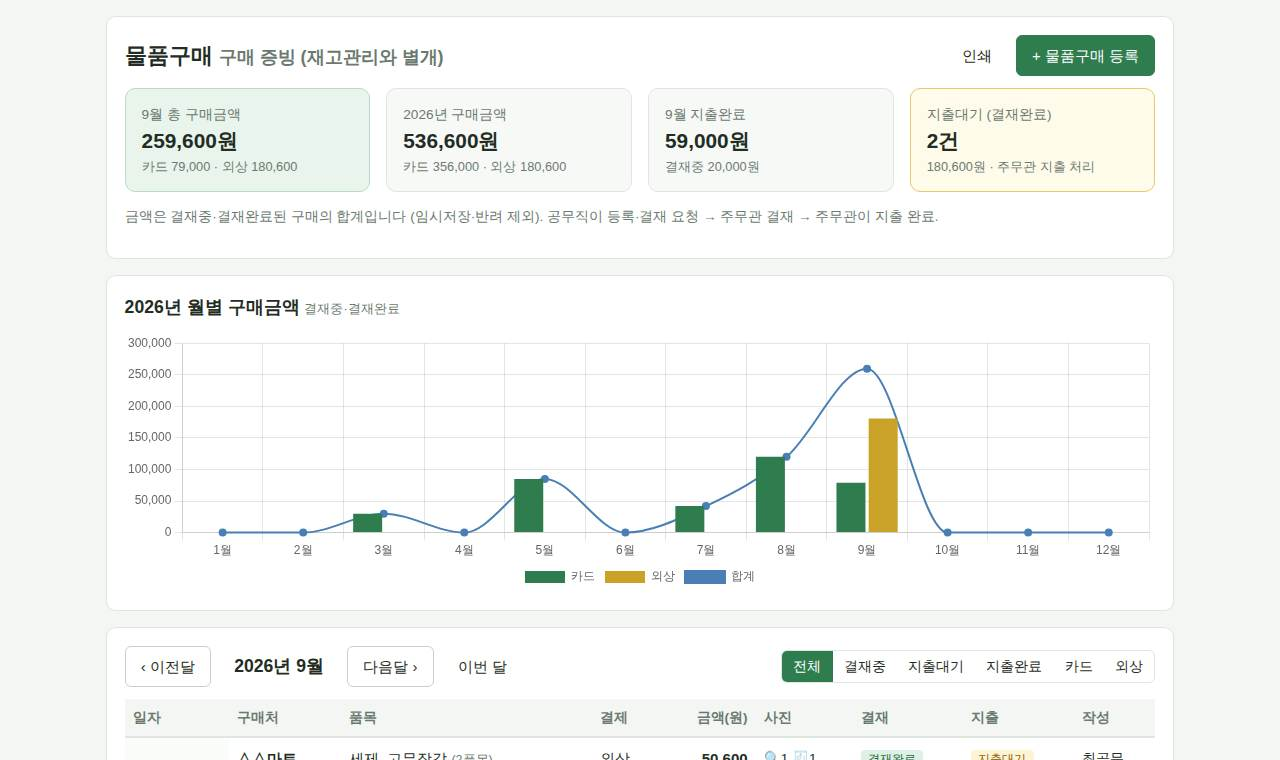
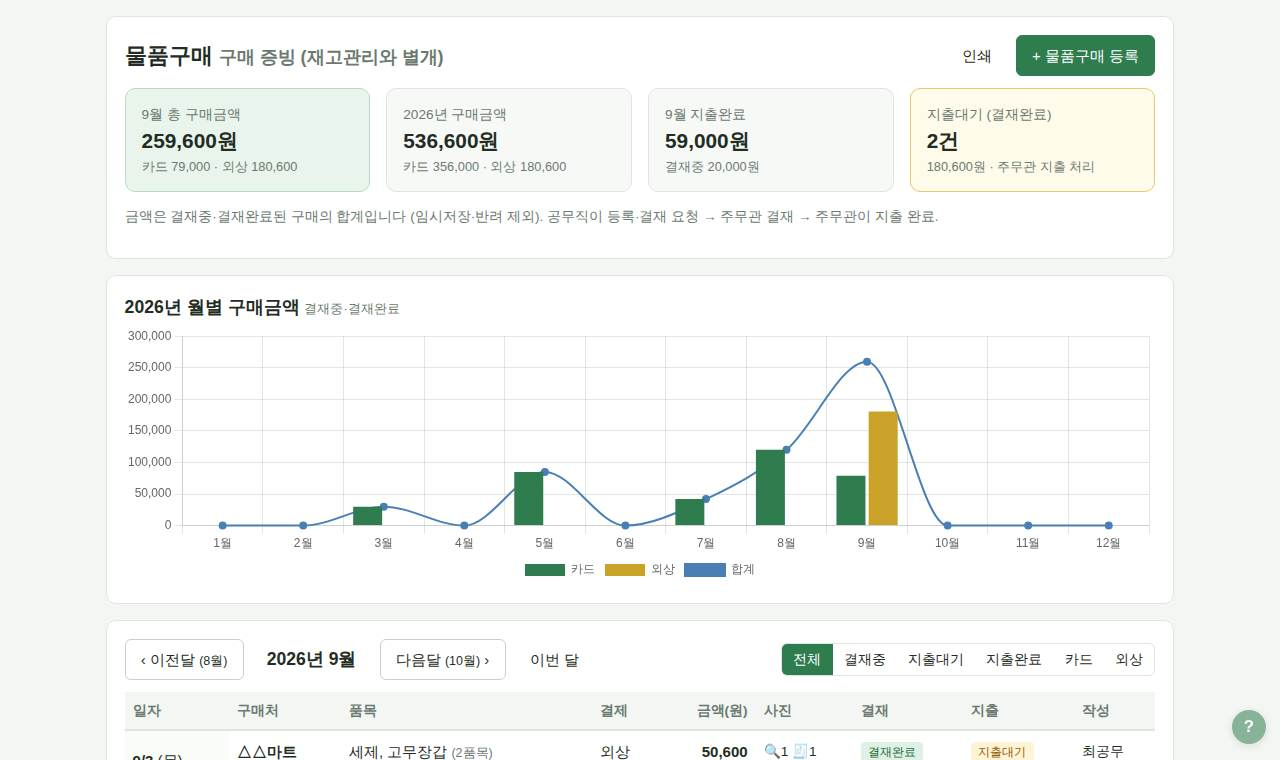
물품구매: 이전달·다음달·거르기 탭 링크 오류 수정, 빈 달 건너뛰기
- $q 링크가 현재 ym·f 를 덮어써서 이동이 안 되던 문제 (배열 합치는 순서)
- 이전달·다음달은 구매 내역이 있는 가까운 달로, 버튼에 갈 달 표시

Claude-Session: https://claude.ai/code/session_01Lr6yxKyasrSL9QLfMX5TX8

diff --git a/purchase.php b/purchase.php
@@ -81,7 +81,18 @@ $rows = array_filter($all, fn($r) => match ($f) {
 });
 $byDate = [];
 foreach ($rows as $r) $byDate[$r['work_date']][] = $r;
-$q = fn(array $p) => 'purchase.php?' . http_build_query(array_filter(['ym' => $ym, 'f' => $f] + $p, fn($v) => $v !== ''));
+$q = fn(array $p) => 'purchase.php?' . http_build_query(array_filter($p + ['ym' => $ym, 'f' => $f], fn($v) => $v !== '')); // 바꿀 값($p)이 앞 — 뒤의 현재 값은 없는 키만 채움
+
+// 이전달·다음달: 구매 내역이 없는 달은 건너뛰고 내역이 있는 가까운 달로 (없으면 바로 앞·뒤 달)
+$navMonth = function (string $dir) use ($pdo, $from, $to, $user, $first): string {
+    $st = $pdo->prepare("SELECT DATE_FORMAT(" . ($dir === 'prev' ? 'MAX' : 'MIN') . "(j.work_date), '%Y-%m') FROM journals j
+                          WHERE j.type = 'purchase' AND (j.status <> 'draft' OR j.author_id = ?) AND j.work_date " . ($dir === 'prev' ? '< ?' : '> ?'));
+    $st->execute([$user['id'], $dir === 'prev' ? $from : $to]);
+    return (string) ($st->fetchColumn() ?: $first->modify($dir === 'prev' ? '-1 month' : '+1 month')->format('Y-m'));
+};
+$prevYm = $navMonth('prev');
+$nextYm = $navMonth('next');
+$ymLabel = fn(string $m) => ((int) substr($m, 0, 4) !== $year ? substr($m, 0, 4) . '년 ' : '') . (int) substr($m, 5) . '월';
 
 layout_header('물품구매', 'purchase');
 ?>
@@ -110,9 +121,9 @@ layout_header('물품구매', 'purchase');
 
 <section class="card">
   <div class="cal-nav no-print">
-    <a class="btn" href="<?= e(url($q(['ym' => $first->modify('-1 month')->format('Y-m')]))) ?>">‹ 이전달</a>
+    <a class="btn" href="<?= e(url($q(['ym' => $prevYm]))) ?>" title="구매 내역이 있는 이전 달">‹ 이전달 <small>(<?= e($ymLabel($prevYm)) ?>)</small></a>
     <strong><?= e($first->format('Y년 n월')) ?></strong>
-    <a class="btn" href="<?= e(url($q(['ym' => $first->modify('+1 month')->format('Y-m')]))) ?>">다음달 ›</a>
+    <a class="btn" href="<?= e(url($q(['ym' => $nextYm]))) ?>" title="구매 내역이 있는 다음 달">다음달 <small>(<?= e($ymLabel($nextYm)) ?>)</small> ›</a>
     <a class="btn ghost" href="<?= e(url('purchase.php')) ?>">이번 달</a>
     <div class="tabs pc-filter">
       <?php foreach ($filters as $k => $label): ?><a href="<?= e(url($q(['f' => $k]))) ?>" class="<?= $f === $k ? 'on' : '' ?>"><?= e($label) ?></a><?php endforeach ?>

diff --git a/app/changelog.php b/app/changelog.php
@@ -7,6 +7,10 @@ defined('APP_ROOT') || exit;
  *   ['date' => 'YYYY-MM-DD', 'title' => '한 줄 요약', 'items' => ['자세한 내용', ...], 'menu' => '관련 메뉴(선택)']
  */
 const CHANGELOG = [
+    ['date' => '2026-10-05', 'title' => '물품구매: 이전달·다음달 버튼 고침', 'menu' => '시설관리', 'items' => [
+        "물품구매 목록의 '이전달'·'다음달' 버튼과 결재중·지출대기 등 거르기 탭이 지금 보고 있는 달·거르기에서 바뀌지 않던 오류를 고쳤습니다.",
+        '이전달·다음달은 구매 내역이 없는 달을 건너뛰고 내역이 있는 가까운 달로 갑니다 (예: 10월에서 이전달 → 9월이 비어 있으면 8월). 버튼에 갈 달이 표시됩니다.',
+    ]],
     ['date' => '2026-10-05', 'title' => '청소관리: 금일 입실 예정 / 금일 미입실 → 객실 분류별로 정리', 'menu' => '객실관리', 'items' => [
         '상태별 목록 대신 금일 입실 예정(오늘 새 손님, 먼저 청소)과 금일 미입실로 나누고, 그 안에서 2인실·4인실·독채별로 묶었습니다. 한 묶음 안에 퇴실대기·청소가능·입실가능이 섞여 칸 색으로 구분됩니다.',
         "여러 객실을 체크할 때는 처음 고른 객실과 같은 상태(퇴실대기 또는 청소가능)만 함께 고를 수 있습니다. 카테고리마다 '퇴실대기 전체'·'청소가능 전체' 버튼이 있습니다.",

diff --git a/app/help.php b/app/help.php
@@ -353,7 +353,8 @@ HTML],
   <li><b>결재 요청</b> → <b>주무관 결재</b> → 주무관이 보기 화면에서 <b>지출 완료</b>(지출일·메모).</li>
 </ol>
 <ul>
-  <li>목록: 월 단위 일자별·구매처별, 상단에 <b>월간·연간 구매금액</b>과 지출대기 건수, 연간 월별 그래프. 결재중·지출대기·지출완료·카드·외상으로 걸러 보기.</li>
+  <li>목록: 월 단위 일자별·구매처별, 상단에 <b>월간·연간 구매금액</b>과 지출대기 건수, 연간 월별 그래프. 결재중·지출대기·지출완료·카드·외상으로 걸러 보기.
+    <b>‹ 이전달 · 다음달 ›</b>은 구매 내역이 없는 달을 건너뛰고 내역이 있는 가까운 달로 갑니다 (버튼에 갈 달 표시).</li>
   <li>지출 완료된 구매는 주무관이 '지출 취소'한 뒤에 고칩니다.</li>
 </ul>
 HTML],
